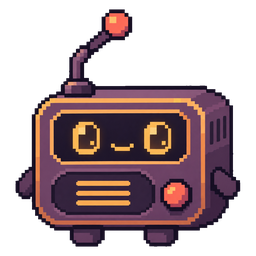
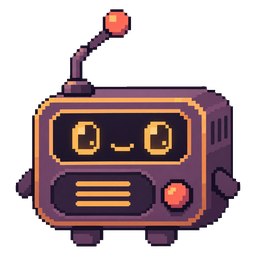
Thinner outline on Dial's sprites and a lighter shadow

diff --git a/myradio/web/style.css b/myradio/web/style.css
@@ -199,7 +199,7 @@ dialog.menu .lock{margin:4px 24px 20px;width:calc(100% - 48px)}
 /* ===== Game layer: Dial the station pet, levels, trophies, celebrations ===== */
 .pet{position:relative;flex-shrink:0;width:56px;height:56px;padding:0;min-height:0;border:0;background:transparent;border-radius:12px;cursor:pointer}
 .pet:hover{background:#ffffff0d}.pet:focus-visible{outline-offset:2px}
-.pet-img{width:52px;height:52px;display:block;margin:2px auto;filter:drop-shadow(0 3px 6px #0007)}
+.pet-img{width:52px;height:52px;display:block;margin:2px auto;filter:drop-shadow(0 2px 3px #0005)}
 .pet-img.missing,.pet-big.missing{visibility:hidden}
 .pet[data-mood=singing] .pet-img,.pet[data-mood=excited] .pet-img{animation:pet-bop .9s ease-in-out infinite}
 .pet[data-mood=sleepy] .pet-img{animation:pet-breathe 3.2s ease-in-out infinite}
